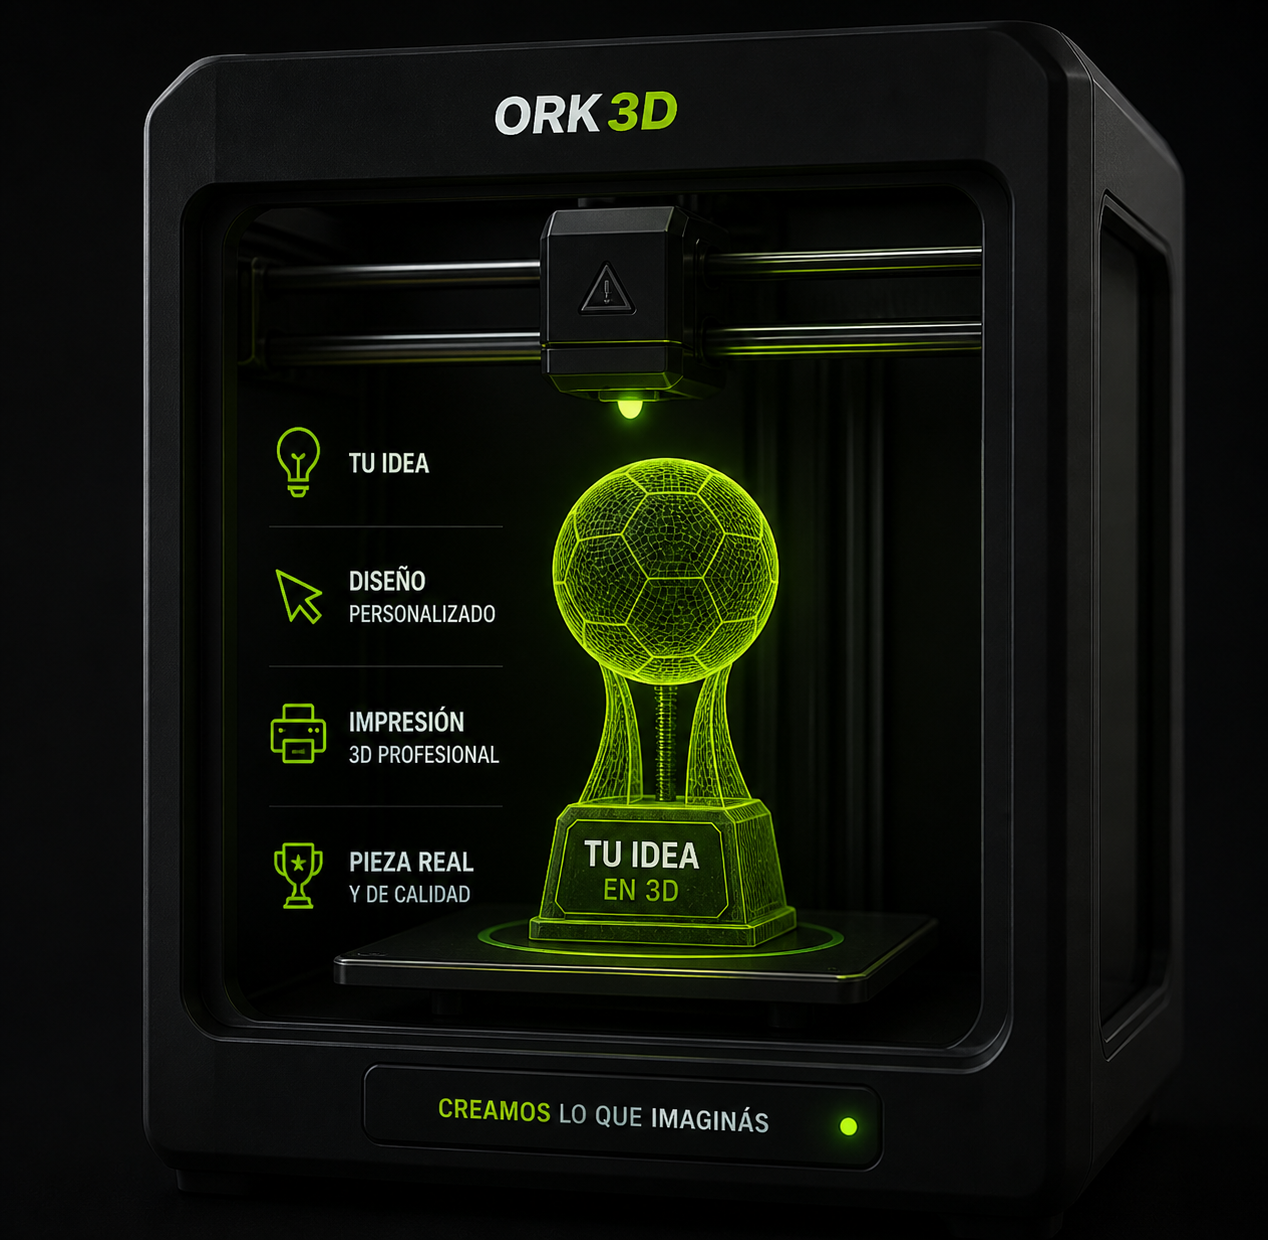
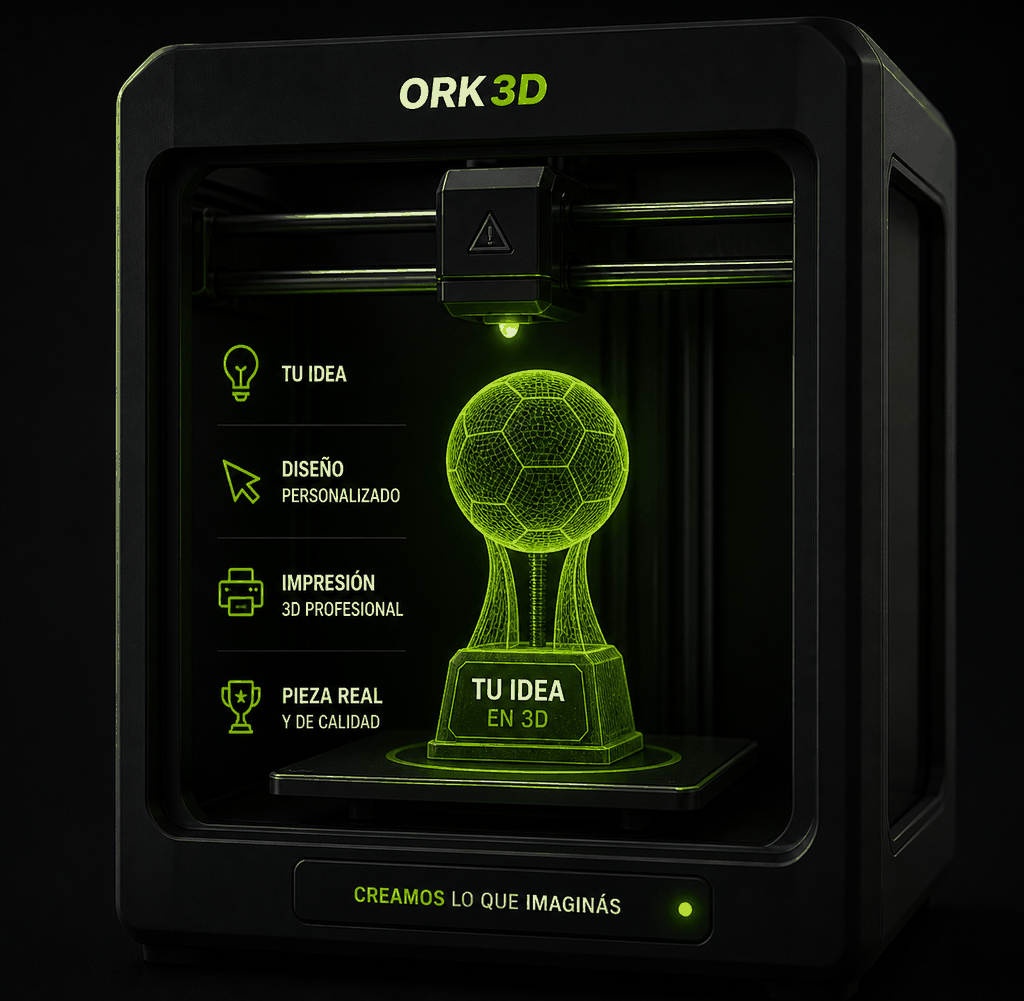
Reemplazar placeholder de impresora por render real (PNG + WEBP)
- Optimiza la imagen subida (1.6 MB → 720 KB PNG, 55 KB WEBP)
- HTML usa <picture> con WEBP primero, fallback a PNG
- Elimina el SVG placeholder (ya no se usa)

https://claude.ai/code/session_01YAzSPbK5Ahf9Lex4sdwjJ3

diff --git a/index.html b/index.html
@@ -264,7 +264,10 @@
       </a>
     </div>
     <div class="cta-final__media" aria-hidden="true">
-      <img src="/assets/img/printer.svg" alt="" loading="lazy" width="320" height="360"/>
+      <picture>
+        <source srcset="/assets/img/printer.webp" type="image/webp"/>
+        <img src="/assets/img/printer.png" alt="" loading="lazy" width="320" height="313"/>
+      </picture>
     </div>
   </div>
 </section>
